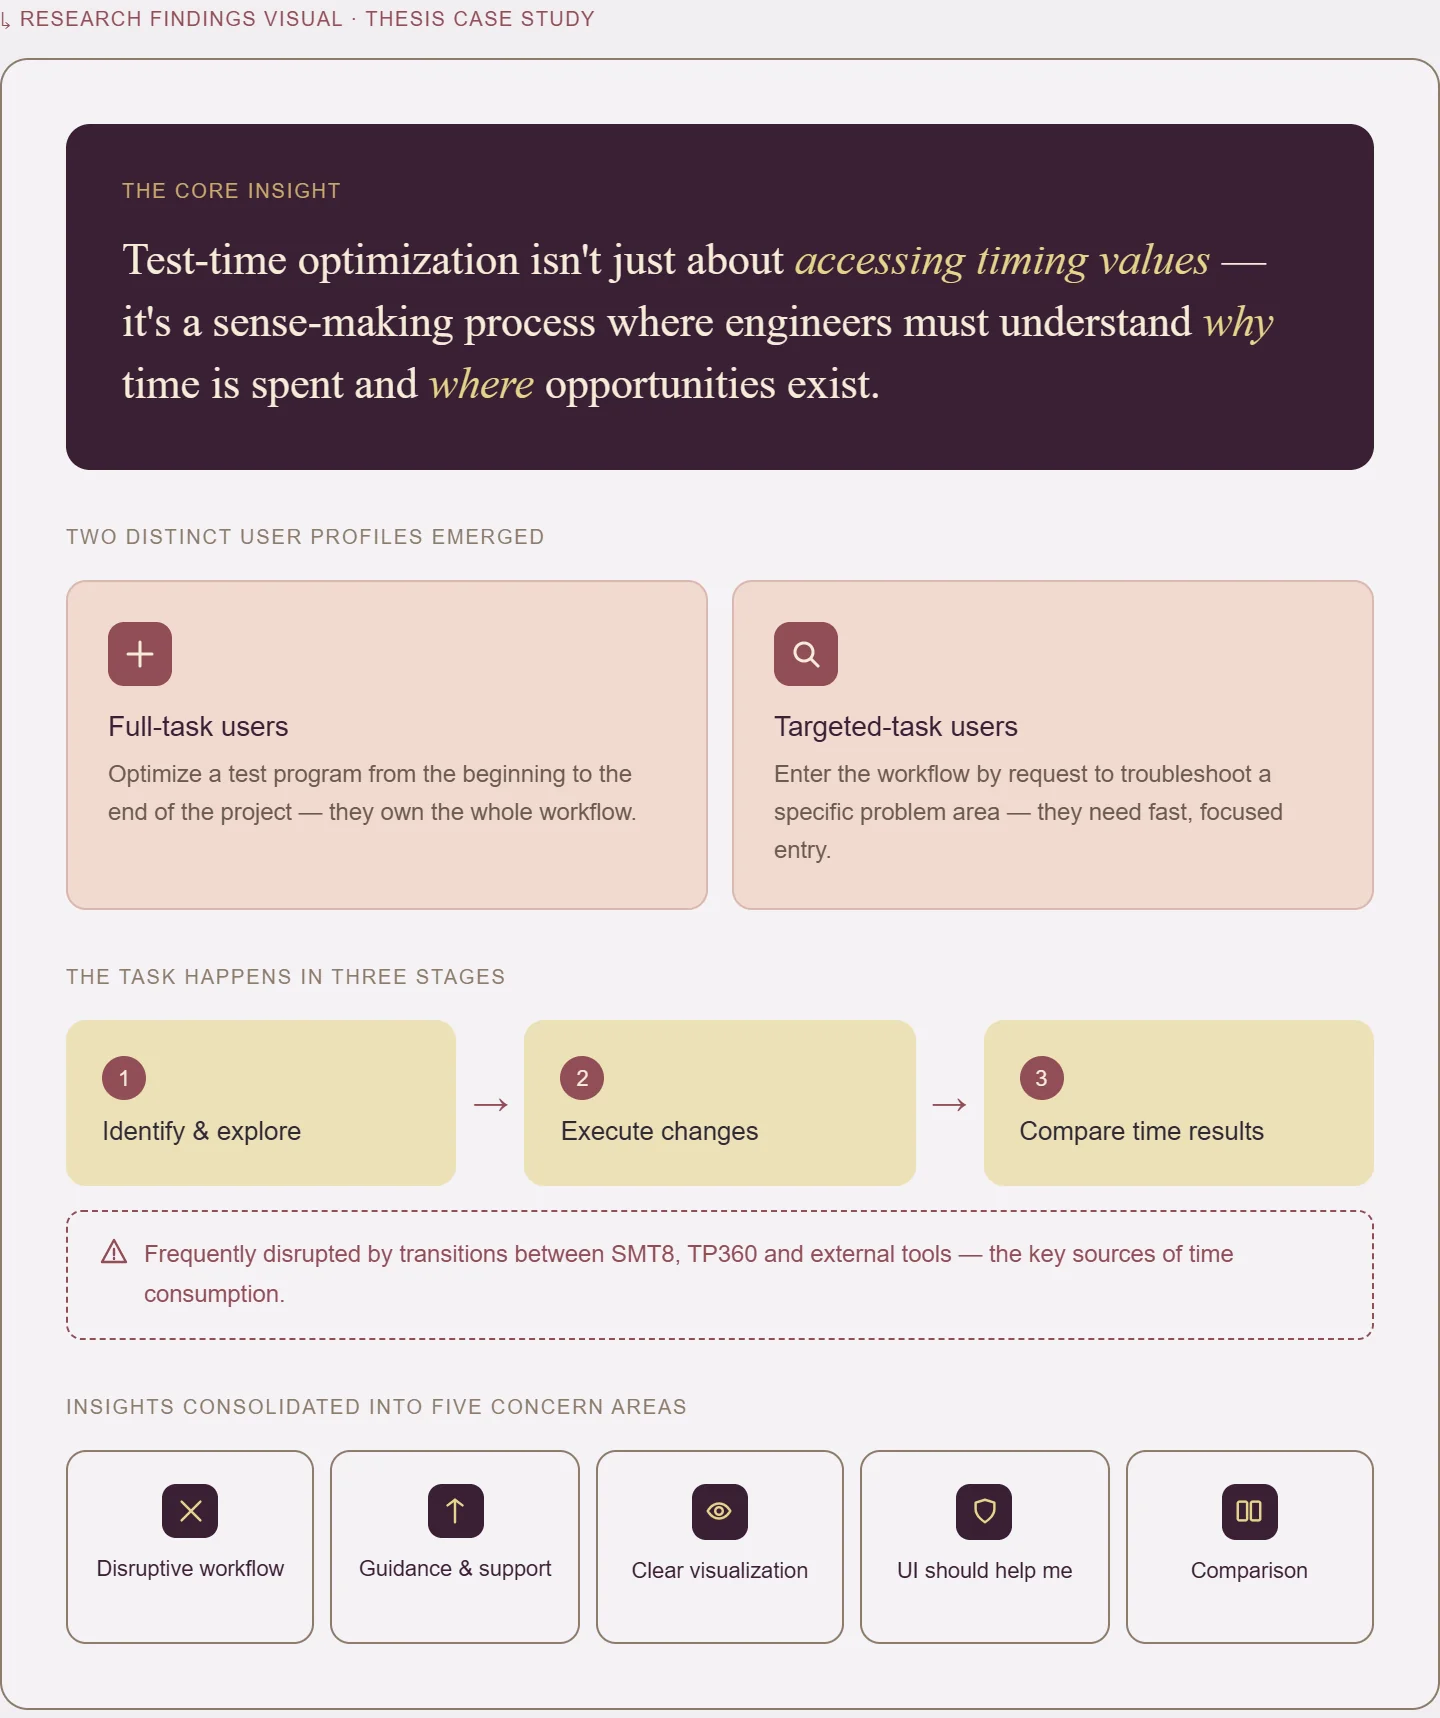
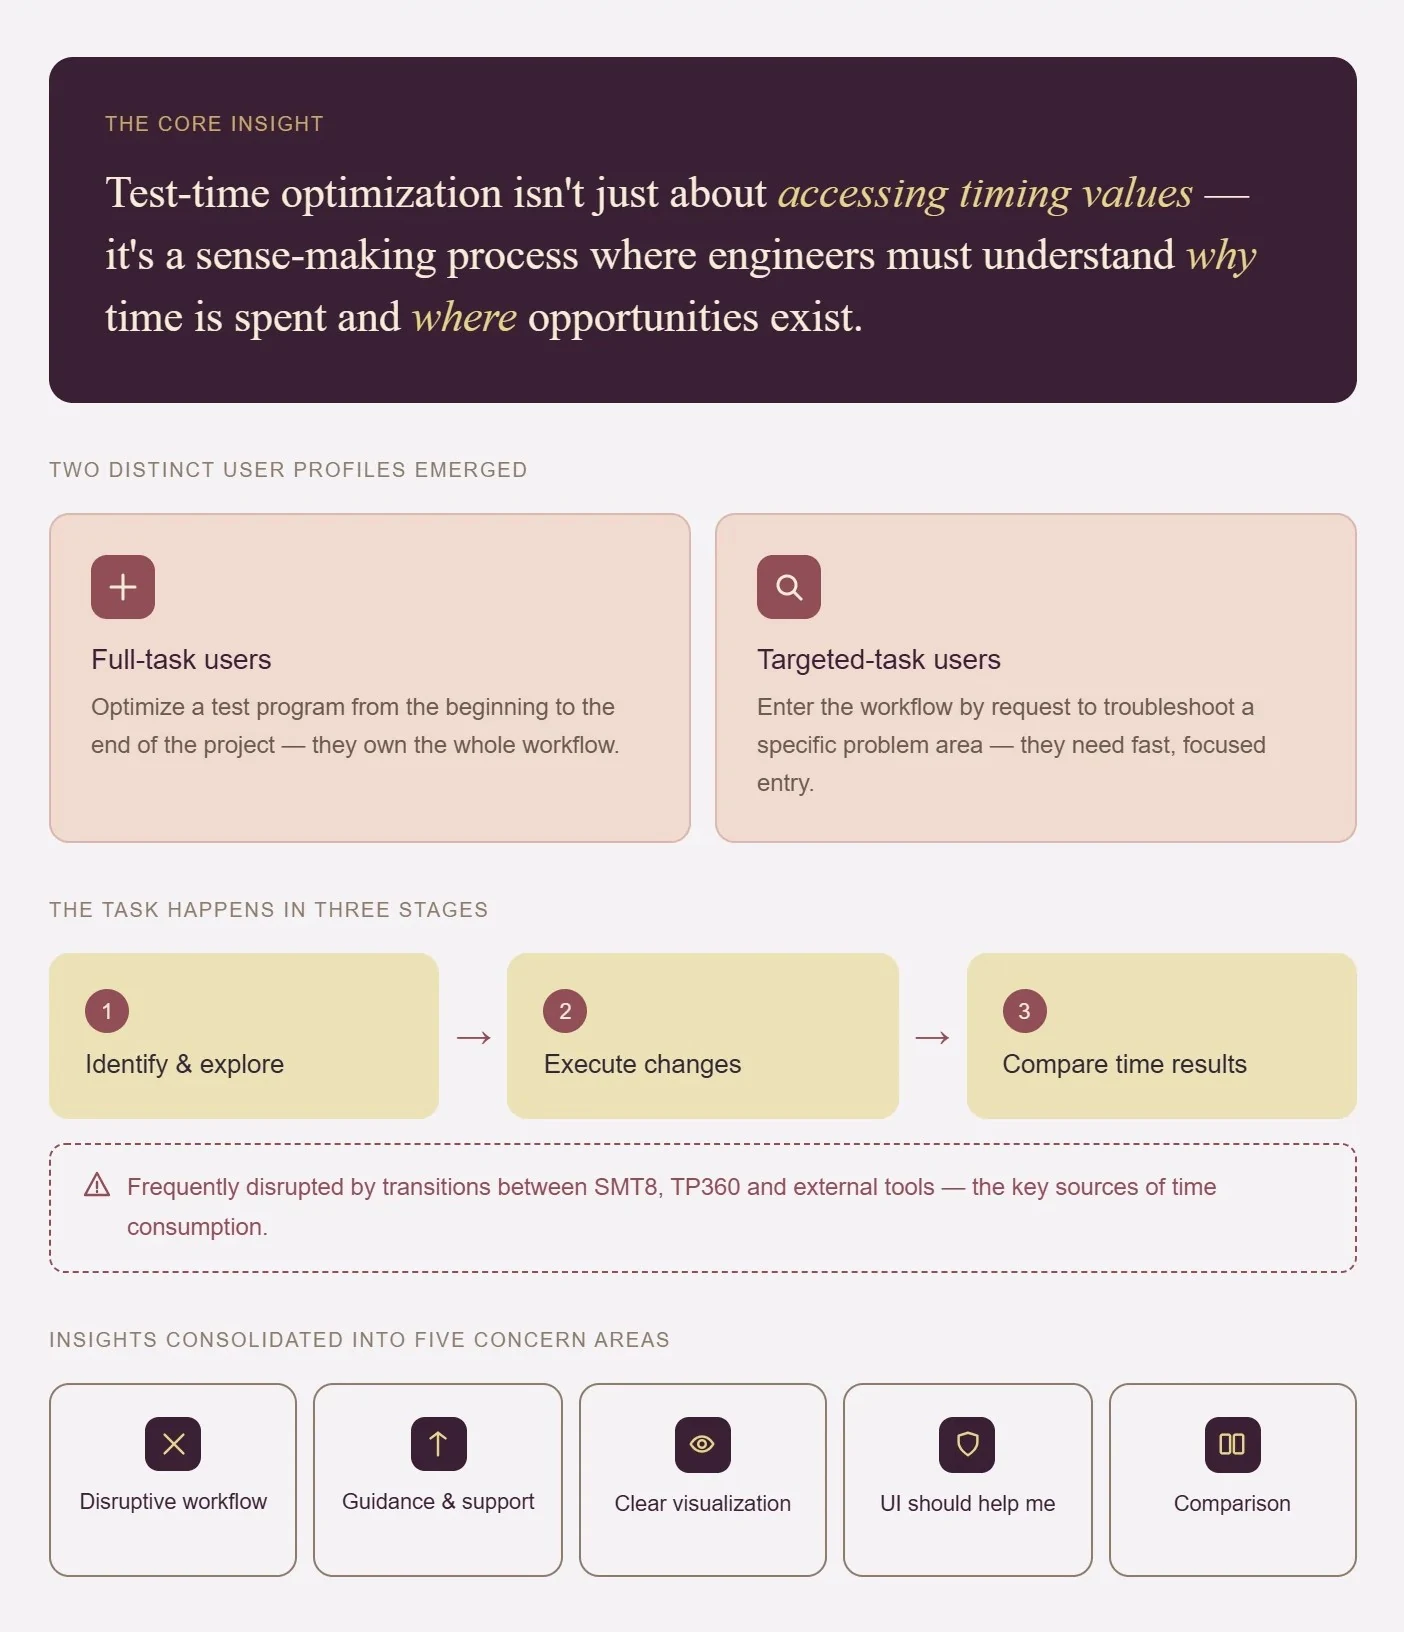
Add files via upload

diff --git a/css/style.css b/css/style.css
@@ -116,7 +116,7 @@ p, h1, h2, h3, ul { margin: 0; }
 .sec { border-bottom: var(--hair) solid var(--muted); padding: 40px var(--pad); }
 .sec > .eyebrow + .h-section { margin-top: 16px; }
 .sec .h-section + .body, .sec .h-section + .steps, .sec .h-section + .outcomes { margin-top: 16px; }
-.sec .h-section + .steps { margin-top: 32px; }
+.sec .h-section + .steps { margin-top: 16px; }
 .body + .body { margin-top: 27px; }
 
 .case-hero { display: grid; grid-template-columns: 633px 1fr; column-gap: 40px; align-items: center; }
@@ -134,16 +134,16 @@ p, h1, h2, h3, ul { margin: 0; }
 .duo { display: grid; grid-template-columns: 1fr 1fr; gap: 16px; margin-top: 16px; }
 .trio { display: grid; grid-template-columns: repeat(3, 1fr); gap: 12px; margin-top: 16px; }
 
-.steps { display: grid; grid-template-columns: repeat(var(--n, 5), 1fr); column-gap: 32px; padding-left: 16px; list-style: none; }
-.steps li { max-width: 221px; }
-.steps--6 li { max-width: 179px; }
+.steps { display: grid; grid-template-columns: repeat(var(--n, 5), minmax(0, 1fr)); padding: 0; list-style: none; }
+.steps li { padding: 16px; border-right: 1px solid var(--muted); }
+.steps li:last-child { border-right: 0; }
 .steps__num { display: flex; align-items: center; justify-content: center; width: 24px; height: 24px; border-radius: 100px; background: var(--dark); color: #fff; font-weight: 500; font-size: 13px; line-height: 19.5px; }
 .steps h3 { margin-top: 10px; font-weight: 400; font-size: 14px; line-height: 22.4px; color: var(--ink); }
 .steps .note { margin-top: 10px; }
 .steps .note + .note { margin-top: 0; }
 .steps .note.gap { margin-top: 20px; }
 
-.figure { margin: 16px 0 0; border-radius: 10px; background: var(--card); border: var(--hair) solid var(--muted); overflow: hidden; }
+.figure { margin: 16px 0 0; border-radius: 10px; background: var(--card); border: var(--hair) dashed var(--muted); overflow: hidden; }
 .figure img, .figure video { width: 100%; height: auto; }
 .figure figcaption { padding: 0 8px; font-size: 16px; line-height: 27.2px; color: var(--muted); }
 .figure figcaption.cap-sm { padding: 6px 8px 8px; font-weight: 500; font-size: 13px; line-height: 19.5px; }
@@ -151,7 +151,7 @@ p, h1, h2, h3, ul { margin: 0; }
 .figure--plain { border: 0; background: transparent; border-radius: 0; }
 .figure--plain img { margin: 0 auto; }
 .figure__stack { display: flex; flex-direction: column; align-items: center; gap: 17px; }
-.figure__stack img { max-width: 638px; }
+.figure__stack > img { max-width: 638px; }
 
 .quote { margin-top: 16px; background: var(--blush); border-left: 3px solid var(--accent); border-radius: 0 10px 10px 0; padding: 20px 43px; }
 .quote p { font-family: var(--serif); font-size: 28px; line-height: 33.6px; letter-spacing: -0.28px; color: var(--ink-2); }
@@ -222,8 +222,9 @@ p, h1, h2, h3, ul { margin: 0; }
   .hero__side { justify-content: center; flex-wrap: wrap; padding: 40px var(--pad); }
   .case-hero { grid-template-columns: 1fr; row-gap: 32px; }
   .case-hero__media img { max-width: 360px; }
-  .steps { grid-template-columns: repeat(2, 1fr); row-gap: 28px; padding-left: 0; }
-  .steps li { max-width: none; }
+  .steps { grid-template-columns: repeat(2, minmax(0, 1fr)); }
+  .steps li { border-right: 0; }
+  .steps li:nth-child(odd):not(:last-child) { border-right: 1px solid var(--muted); }
   .duo, .trio, .outcomes { grid-template-columns: 1fr; }
   .decision, .decision--wide { grid-template-columns: 1fr; row-gap: 28px; }
   .decision .phone, .decision__img { justify-self: center; }
@@ -248,7 +249,9 @@ p, h1, h2, h3, ul { margin: 0; }
   .h-section { font-size: 24px; line-height: 30px; }
   .quote { padding: 16px 20px; }
   .quote p { font-size: 22px; line-height: 28px; }
-  .steps { grid-template-columns: 1fr; }
+  .steps { grid-template-columns: minmax(0, 1fr); }
+  .steps li, .steps li:nth-child(odd):not(:last-child) { border-right: 0; padding: 16px 0; }
+  .steps li + li { border-top: 1px solid var(--muted); }
   .phone { width: min(400px, 100%); }
   .build__row { grid-template-columns: 1fr; row-gap: 12px; }
   .build__row .arrow { width: 80px; margin: 0 auto; transform: rotate(90deg); }
@@ -263,5 +266,10 @@ body.contact { background: #fff; }
 .contact .site-header { background: #fff; border-bottom-color: #ddd8ec; }
 .case .site-header { border-bottom-color: var(--accent); }
 .channel__img { flex: 0 0 36px; width: 36px; height: 36px; }
-.figure--research { padding: 0; }
+.figure--research { padding: 24px 0; background: #f6f1f5; }
 .figure--research img { max-width: 802px; margin: 0 auto; }
+
+/* Watermark over the Deskbird wireframes (as in the original) */
+.wm { position: relative; width: 100%; max-width: 638px; container-type: inline-size; }
+.wm img { width: 100%; max-width: none; }
+.watermark { position: absolute; inset: 0; display: flex; align-items: center; justify-content: center; text-align: center; font-family: var(--dm); font-weight: 500; font-size: min(96px, 15cqw); line-height: normal; color: #000; opacity: .3; pointer-events: none; user-select: none; }

diff --git a/project-deskbird-bauhaus/index.html b/project-deskbird-bauhaus/index.html
@@ -64,7 +64,7 @@
       <p class="body">After analysing and discussing with Deskbird stakeholders different possible concepts, we believed that interest-based communities and events would foster a real sense of community. Our concept gives the employees, no matter their hierarchy, the agency to create and customize events. The concept also allows hybrid workers to interact with other employees and bond over mutual interests.</p>
       <figure class="figure figure--center" style="max-width:635px"><img src="../assets/img/deskbird-concepts.webp" alt="Snippet of concepts" loading="lazy"><figcaption class="cap-sm">Snippet of Concepts</figcaption></figure>
       <figure class="figure figure--center" style="max-width:629px"><img src="../assets/img/deskbird-userflow.webp" alt="Userflow of the final concept" loading="lazy"><figcaption class="cap-sm">Userflow of final concept</figcaption></figure>
-      <figure class="figure"><div class="figure__stack"><img src="../assets/img/deskbird-wireframes-1.webp" alt="Prototype wireframes, part 1" loading="lazy"><img src="../assets/img/deskbird-wireframes-2.webp" alt="Prototype wireframes, part 2" loading="lazy"></div><figcaption class="cap-sm">Prototype - Wireframes</figcaption></figure>
+      <figure class="figure"><div class="figure__stack"><div class="wm"><img src="../assets/img/deskbird-wireframes-1.webp" alt="Prototype wireframes, part 1" loading="lazy"><span class="watermark" aria-hidden="true">All Rights Reserved Deskbird</span></div><div class="wm"><img src="../assets/img/deskbird-wireframes-2.webp" alt="Prototype wireframes, part 2" loading="lazy"><span class="watermark" aria-hidden="true">All Rights Reserved Deskbird</span></div></div><figcaption class="cap-sm">Prototype - Wireframes</figcaption></figure>
     </section>
 
     <section class="sec">

diff --git a/project-advantest-testtime/index.html b/project-advantest-testtime/index.html
@@ -49,7 +49,7 @@
       <p class="eyebrow">03 - RESEARCH</p>
       <h2 class="h-section">Understanding a specialized workflow</h2>
       <p class="body">With only around 100 engineers spread across the world performing this task, access to participants was challenging. I conducted 9 remote video interviews with questions that could not only be answered verbally but that could follow a “show me by doing” approach. I asked engineers to walk me through how they actually performed the task in their own environment. This method revealed far more than standard interviews would have.</p>
-      <figure class="figure figure--research"><img src="../assets/img/testtime-research.webp" alt="Overview of the research: interview approach and findings" width="1440" height="1718" loading="lazy"></figure>
+      <figure class="figure figure--research"><img src="../assets/img/testtime-research.webp" alt="Research findings: the core insight, two user profiles, three task stages and five concern areas" width="1404" height="1632" loading="lazy"></figure>
       <div class="trio">
         <div class="box"><span class="eyebrow">KEY INSIGHT 1</span><h3>Fragmented tool usage</h3><p class="note">Every engineer had developed their own workaround workflow. There was a partial shared mental model of how to approach the task.</p></div>
         <div class="box"><span class="eyebrow">KEY INSIGHT 2</span><h3>Concurrency was invisible</h3><p class="note">The existing feature showed time data and hierarchy but never visualized process concurrency: the thing engineers needed to spot some optimization opportunities</p></div>

diff --git a/contact/index.html b/contact/index.html
@@ -22,7 +22,7 @@
     <section class="contact-hero">
       <p class="eyebrow">Contact</p>
       <h1>Let’s build something <span>worth using</span></h1>
-      <p class="body">I am open to full-time UX/UI roles - ideally in Germany or within Europe (remote or on-site)<br>I’d love to hear from you.</p>
+      <p class="body">I open to full-time UX/UI roles - ideally in Germany or within Europe (remote or on-site)<br>I’d love to hear from you.</p>
     </section>
 
     <section class="contact-body">
